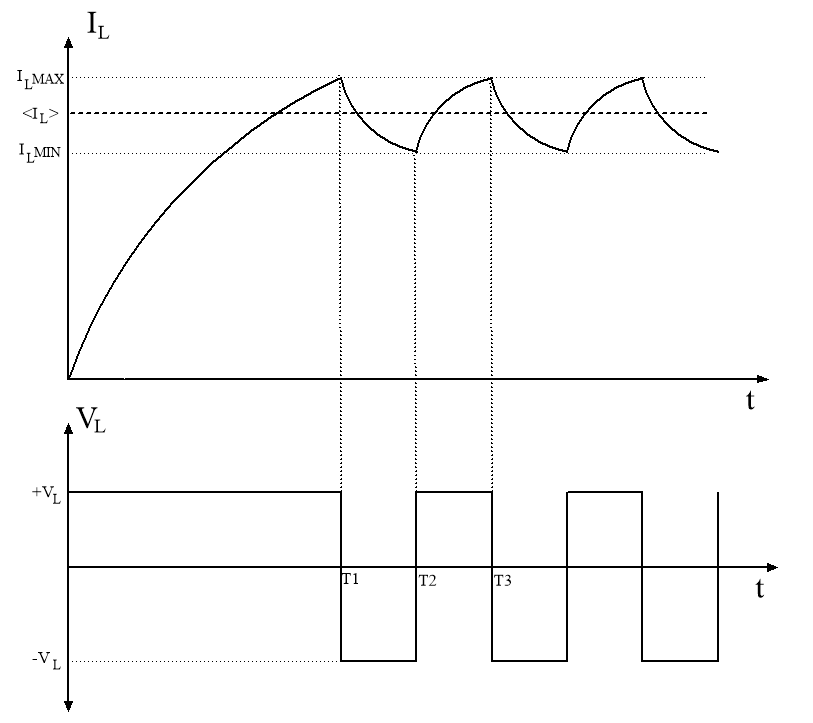
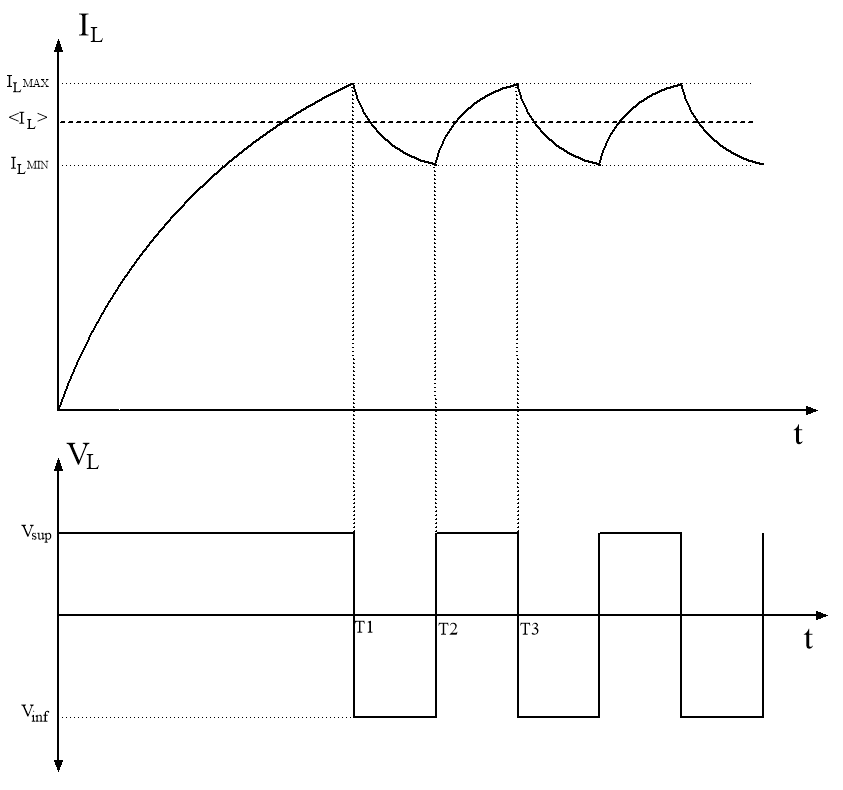
Cambios CC

diff --git a/Informe final/Proyecto Levitador LaTeX/Informe/4-ControladorCorriente/ControladorCorriente.tex b/Informe final/Proyecto Levitador LaTeX/Informe/4-ControladorCorriente/ControladorCorriente.tex
@@ -12,9 +12,11 @@ Para controlar la posición de la pieza móvil es necesario modificar la fuerza 
 
 En ella se ve que la fuerza magnética depende de la corriente del bobinado. Por lo tanto, se propone implementar un controlador de corriente que permita regularla a partir de una tensión de entrada, que funciona como referencia del valor de corriente deseado. De forma tal que, al variar dicha tensión, se logre ajustar la fuerza ejercida por el electroimán.
 
+%En ella se ve que la fuerza magnética depende de la corriente del bobinado. Por lo tanto, se propone implementar un controlador de corriente que permita regularla. Este controlador tendrá como entrada una tensión de referencia correspondiente al valor de corriente deseado. De esta forma, al variar dicha tensión, se logra ajustar la fuerza ejercida por el electroimán.
+
 \subsection{Comportamiento eléctrico del electroimán}\label{sec_comportamiento-electrico-electroiman}
 
-Como se analizó en el capítulo \ref{cap:CaracterizacionElectroiman}, el electroimán puede ser modelado como una inductancia ($L(Y_g)$) que varía con la distancia de entrehierro ($Y_g$) y una resistencia serie ($R_L$). Es decir, como un circuito RL serie cuya  relación entre corriente de salida ($I_L$) y tensión de entrada ($V_L$), llamada admitancia, es:
+Como se analizó en el capítulo \ref{cap:CaracterizacionElectroiman}, el electroimán puede ser modelado como una inductancia que varía con la distancia de entrehierro ($L(Y_g)$) y una resistencia serie ($R_L$). Es decir, como un circuito RL serie cuya  relación entre corriente de salida ($I_L$) y tensión de entrada ($V_L$), llamada admitancia, es:
 
 \begin{equation} \label{eq_corriente}
 	\frac{I_L}{V_L}(s)=\frac{1}{s*L(Y_g)+R_L}
@@ -57,9 +59,7 @@ Se desea controlar el valor de la corriente que circula por el electroimán a pa
 
 Este sistema de control trabaja a lazo cerrado, es decir, mide una tensión proporcional a la corriente y luego la compara con la referencia. Este resultado es utilizado para determinar si es necesario aumentar o disminuir la corriente y, en función de ello, actuar sobre la tensión de alimentación del electroimán.
 
-Para controlar la alimentación del electroimán se propone diseñar un controlador que trabaje en conmutación. En este tipo de controladores se alterna la alimentación del electroimán ($V_L$) entre un valor superior positivo $\ V_{sup}$, y un valor inferior negativo $V_{inf}$. De esta manera, al controlar los tiempos de conmutación, se logra que la corriente oscile en torno a un valor medio deseado. La forma de onda resultante se muestra en la figura  \ref{fig:img_corriente_exponencial}. 
-
-En ella se puede ver que esta manera de controlar la alimentación genera una corriente con oscilaciones alrededor del valor medio deseado, también conocidas como \textsl{ripple}. Sin embargo, esto no presentaría un problema si el controlador de corriente es diseñado de forma tal que estas variaciones sean pequeñas comparadas con el valor medio.
+Para controlar la tensión de alimentación del electroimán se propone diseñar un controlador que trabaje en conmutación. En este tipo de controladores se alterna la alimentación del electroimán ($V_L$) entre un valor superior positivo $\ V_{sup}$, y un valor inferior negativo $V_{inf}$. De esta manera, al controlar los tiempos de conmutación, se logra que la corriente oscile en torno a un valor medio deseado y se obtiene una forma de onda como la que se muestra en la figura  \ref{fig:img_corriente_exponencial}. En ella se puede ver que esta manera de controlar la alimentación genera una corriente con oscilaciones alrededor del valor medio deseado, también conocidas como \textsl{ripple}. Sin embargo, esto no presentaría un problema si el controlador de corriente es diseñado de forma tal que estas variaciones sean pequeñas comparadas con el valor medio. \colorbox{red}{..ya que no afectaría em la fuerza ejercida..?}
 
 \begin{figure}[H]
 	\centering
@@ -67,8 +67,6 @@ En ella se puede ver que esta manera de controlar la alimentación genera una co
 	\caption{Forma de onda de corriente y tensión en el electroimán.}
 	\label{fig:img_corriente_exponencial}
 \end{figure}
-
-\colorbox{red}{modificar valores de imagen Vsup y Vinf}
 
 Si se elige un período de conmutación lo suficientemente chico con respecto a la constante de tiempo de la planta, la forma de onda de la corriente en estado estacionario puede ser aproximada a una onda triangular como se muestra en la figura \ref{fig:img_corriente_lineal}. 
 
@@ -79,17 +77,19 @@ Si se elige un período de conmutación lo suficientemente chico con respecto a 
 	\label{fig:img_corriente_lineal}
 \end{figure}
 
-Cada tramo que compone la onda triangular puede ser aproximado con la ecuación \ref{eq_corriente_taylor}, en donde $I_o$ corresponde al valor de corriente en el que se produce la conmutación en $V_L$.
+Cada tramo que compone la onda triangular puede ser aproximado con la ecuación \ref{eq_corriente_taylor}, en donde $I_o$ corresponde al valor de corriente en el instante en que se produce la conmutación en $V_L$.
 
 \begin{equation} \label{eq_corriente_taylor}
 	i_L(t)=I_o -  (I_o-\frac{V_L}{R_L})*\frac{t}{\tau}
 \end{equation}
 
-Es posible observar en la expresión \ref{eq_corriente_taylor} que la pendiente de la onda triangular depende de $\tau=\frac{L_{(Y_g)}}{R_L}$. Es decir, existe una relación entre la pendiente y la distancia de entrehierro. Como se mencionó en la sección \ref{sec_descripcion-del-dispositivo}, para que el dispositivo completo pueda mantener la pieza móvil levitando debe conocer dicha distancia en todo momento. Por lo tanto se propone medirla indirectamente a través de la pendiente de la onda triangular. A continuación se analizará qué variables del sistema afectan el valor de la pendiente y si es posible utilizarla para estimar la posición.
+Es posible observar en la expresión \ref{eq_corriente_taylor} que la pendiente de la onda triangular depende de $\tau=\frac{L_{(Y_g)}}{R_L}$. Es decir, existe una relación entre la pendiente y la distancia de entrehierro. Como se mencionó en la sección \ref{sec_descripcion-del-dispositivo}, para que el dispositivo de levitación magnética pueda mantener la pieza móvil suspendida debe conocer dicha distancia en todo momento. Por lo tanto se propone medirla indirectamente a través de la pendiente de la onda triangular. A continuación se analizará qué variables del sistema afectan el valor de la pendiente y si es posible utilizarla para estimar la posición.
 
 \subsection{Análisis de estimación de distancia de entrehierro} \label{sec_analisis_estimacion}
 
-Como se mencionó previamente, la pendiente de la onda triangular de la corriente contiene información de la distancia de entrehierro. Por lo tanto, para comenzar este análisis se deriva la expresión \ref{eq_corriente_taylor} con respecto al tiempo para obtener el valor de la pendiente. Reemplazando $\tau=\frac{L(Y_g)}{R_L}$ se obtiene la expresión \ref{eq_derivada_corriente}. 
+Como se mencionó previamente, la pendiente de la onda triangular de la corriente contiene información de la distancia de entrehierro. Por lo tanto, se propone estimar el valor de la distancia a partir de la medición de dicha pendiente. 
+
+Para comenzar este análisis se deriva la expresión \ref{eq_corriente_taylor} con respecto al tiempo para obtener el valor de la pendiente y se reemplaza $\tau=\frac{L(Y_g)}{R_L}$:
 
 %\begin{equation} \label{eq_derivada_corriente}
 %	\frac{di_L(t)}{dt}=(\frac{V_L}{R_L}-I_o)*\frac{1}{\tau}
@@ -99,7 +99,8 @@ Como se mencionó previamente, la pendiente de la onda triangular de la corrient
 	\frac{di_L(t)}{dt}=\frac{V_L-I_o*R_L}{L(Y_g)}
 \end{equation}
 
-Si bien la pendiente cambia según las condiciones iniciales, para este análisis se considera $I_o=0$ y luego se analizará cómo afecta en el sistema real. De esta forma, la pendiente resulta:
+Si bien la pendiente cambia según las condiciones iniciales, para este análisis se considera $I_o=0$ y luego se analizará cómo afecta esta suposición en el sistema real. De esta forma, la pendiente resulta:
+\colorbox{red}{No nos olvidemos de verificar esta suposición...}
 
 
 \begin{equation} \label{eq_derivada_corriente_2}
@@ -128,7 +129,7 @@ En la expresión \ref{eq_pendiente_vs_Yg}, la tensión con la que se alimenta al
 %
 %La tensión $V_L$ es un parámetro de diseño en el sistema, por lo tanto resulta conveniente elegir una alimentación $V_{cc}$ tal que $|V_{sup}|=|V_{inf}|=|V_{cc}|$. De esta forma, se obtiene que el módulo de la pendiente es igual en ambos casos y resulta:
 
-Como se desea realizar la estimación a partir del módulo de la pendiente, resulta conveniente que su magnitud sea igual en cada ciclo de conmutación independientemente de la tensión de alimentación aplicada. Por lo tanto, debido a que la tensión $V_L$ es un parámetro de diseño en el sistema, se eligen valores de $V_{sup}$ y $V_{inf}$ que difieran en su polaridad, pero que tengan la misma magnitud. De esta forma, se define una alimentación $V_{cc}$ tal que $|V_{sup}|=|V_{inf}|=|V_{cc}|$ y se obtiene:
+Como se desea realizar la estimación a partir del módulo de la pendiente, resulta conveniente que su magnitud sea igual en cada ciclo de conmutación independientemente de la tensión de alimentación aplicada. Por lo tanto, debido a que la tensión $V_L$ es un parámetro de diseño en el sistema, se eligen valores de $V_{sup}$ y $V_{inf}$ que difieran en su polaridad, pero que tengan la misma magnitud. De esta forma, se define un valor para la tensión de alimentación $V_{cc}$ tal que $|V_{sup}|=|V_{inf}|=|V_{cc}|$ y se obtiene:
  
 \begin{equation} \label{eq_pendiente_simetrica_corriente}
 	\abs{\frac{di_L(t)}{dt}}= Y_g*\frac{2}{N^2*A*\mu_o}*\abs{V_{cc}}
@@ -157,22 +158,24 @@ En la figura \ref{fig:img_diag-en-bloques} se puede observar el controlador impl
 	\caption{Diagrama en bloques simplificado del controlador de corriente}	\label{fig:img_diag-en-bloques}
 \end{figure}
 
-\colorbox{red}{En los diagramas cambié Ie por e, así no tengo que hacer un bloque de histeresis distinto cuando el error es Ve (como en el de abajo)}
-
 En este tipo de controlador se alterna la polaridad de la tensión de alimentación del electroimán, con el objetivo de que la corriente se mantenga oscilando en torno a un valor medio de referencia. Para ello se define un margen de corriente $\Delta I_L$ de forma tal que, si la corriente que circula por el electroimán supera a la de referencia, no se producirá un cambio de polaridad en la tensión aplicada hasta que la supere por $\frac{\Delta I_L}{2}$. Análogamente, cuando comienza a decrecer, seguirá haciéndolo hasta que sea menor a la corriente de referencia menos $\frac{\Delta I_L}{2}$.
 
+Debido a que en las sucesivas conmutaciones lo único que cambia es la polaridad de la tensión con la que se excita al electroimán, la constante de tiempo del circuito no cambia. Esto da como resultado que la corriente oscile sobre un valor medio con igual tiempo de crecimiento que de decrecimiento. La amplitud de estas oscilaciones (o \textsl{ripple}) es fija y está determinada por el ancho de histéresis con el que se diseñe el controlador.
 
-Debido a que en las sucesivas conmutaciones lo único que cambia es la polaridad de la tensión con la que se excita al electroimán, la constante de tiempo del circuito no cambia. Esto da como resultado que la corriente oscile sobre un valor medio con igual tiempo de crecimiento que de decrecimiento. Esta oscilación también es conocida como \textsl{ripple}. Su amplitud es fija y está determinada por el ancho de histéresis con el que se diseñe el controlador.
-
-Para lograr una forma de onda como la mostrada en la  figura \ref{fig:img_corriente_lineal} el controlador actúa de la siguiente manera. Al iniciar, la corriente $I_L$ es cero, dando como resultado a la entrada del comparador  $e = I_{ref}$. Por lo tanto, el comparador excita al electroimán con $V_L=+V_{CC}$ provocando que $I_L$ aumente de forma exponencial hasta que el valor de $e$ sea $\frac{\Delta I_L}{2}$. Una vez alcanzado este valor, el bloque con histéresis actúa y conmuta la tensión $V_L$ a $-V_{CC}$. Al hacer esto, la corriente comienza a decrecer hasta que el error sea igual a $-\frac{\Delta I_L}{2}$. De igual forma, en este punto el bloque comparador actúa y la tensión $V_L$ conmuta a $+V_{CC}$. Este ciclo se repite indefinidamente siempre y cuando la $I_{ref}$ sea constante. En caso de que esta cambie, el sistema dejará de conmutar momentáneamente hasta que el módulo de $e$ sea igual a $\frac{\Delta I_L}{2}$. Una vez igualado, el sistema volverá a conmutar.
+Para lograr una forma de onda como la mostrada en la  figura \ref{fig:img_corriente_lineal} el controlador debe actuar de la siguiente manera. Al iniciar, la corriente $I_L$ es cero, dando como resultado a la entrada del comparador  $e = I_{ref}$. Por lo tanto, el comparador excita al electroimán con $V_L=+V_{CC}$ provocando que $I_L$ aumente de forma exponencial hasta que el valor de $e$ sea $-\frac{\Delta I_L}{2}$. Una vez alcanzado este valor, el bloque con histéresis actúa y conmuta la tensión $V_L$ a $-V_{CC}$. Al hacer esto, la corriente comienza a decrecer hasta que el error sea igual a $\frac{\Delta I_L}{2}$. De igual forma, en este punto el bloque comparador actúa y la tensión $V_L$ conmuta a $+V_{CC}$. Este ciclo se repite indefinidamente siempre y cuando la $I_{ref}$ sea constante. En caso de que esta cambie, el sistema dejará de conmutar momentáneamente hasta que el módulo de $e$ sea igual a $\frac{\Delta I_L}{2}$. Una vez igualado, el sistema volverá a conmutar.
 
 TENEMOS QUE PONER LA IMAGEN Y CAMBIAR EL TEXTO EN REFERENCIA A ELLA
+\colorbox{red}{Que imagen sería?}
 
 \subsection{Consideraciones prácticas del controlador de corriente}
 
 En el diagrama en bloques \ref{fig:img_diag-en-bloques} se analizó la lógica de control trabajando únicamente con señales en forma de corriente. Sin embargo, para la realización práctica del controlador es conveniente trabajar con tensiones. Por lo tanto, es necesario  convertir el valor de corriente del electroimán medido en un valor de tensión proporcional. Esto se realiza utilizando un sensor de corriente cuya ganancia se simboliza con $H(s)$.
 
-Por otro lado, para lograr que la corriente de salida excursione entre $0\:A$ a $30\:A$, a partir de una tensión de referencia de entrada ($V_{IL_{ref}}$), se agrega el bloque $K_{in}$. Este permite relacionar cada valor de corriente de salida con uno de tensión de entrada. El diagrama en bloques del sistema modificado se muestra en la figura \ref{fig:img_diag-en-bloques-conH-y-Kin}.
+Para la señal de entrada $V_{IL_{ref}}$ se adoptan valores de tensión entre $0\:V$ y $5\:V$. Esto con el fin de que la implementación circuital utilice amplificadores operacionales con una fuente simple de $5\:V$. 
+
+Por otro lado, para lograr que la corriente de salida excursione entre $0\:A$ a $30\:A$, a partir de una tensión de referencia de entrada ($V_{IL_{ref}}$), se agrega el bloque $K_{in}$. Este permite asociar cada valor de corriente de salida con uno de tensión de entrada. El diagrama en bloques del sistema modificado se muestra en la figura \ref{fig:img_diag-en-bloques-conH-y-Kin}.
+
+\colorbox{red}{acá ya se podría calcular Kin, pq sabemos que va de 0 a 5V y la corriente de 0 a 30 A..}
 
 %\begin{figure}[H]
 %	\centering
@@ -186,8 +189,6 @@ Por otro lado, para lograr que la corriente de salida excursione entre $0\:A$ a 
 	\input{tikz/diagrama_bloques_completo.tex}
 	\caption{Diagrama en bloques completo del controlador de corriente}	\label{fig:img_diag-en-bloques-conH-y-Kin}
 \end{figure}
-
-Para la señal de entrada $V_{IL_{ref}}$ se adoptan valores de tensión entre $0\:V$ y $5\:V$. Esto con el fin de que la implementación circuital utilice amplificadores operacionales con una fuente simple de $5\:V$. 
 
 %Para hacer esto se debe utilizar un sensor que permita una medición de corriente hasta, por lo menos, $30\:A$  y con un error máximo tolerable tal que permita actuar al comparador y no afecte al sistema.
 
